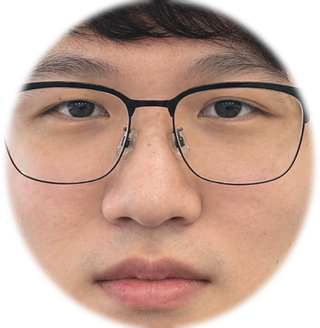
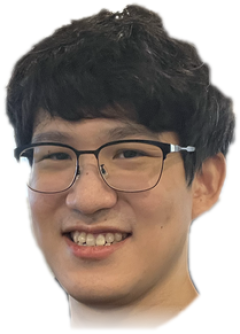
New Melon head cutout, hoodie-and-jeans body, drawn grabbing hand (#14)
Claude-Session: https://claude.ai/code/session_016JVDcqA5BWSQd8BoUJZBKD

diff --git a/melon/index.html b/melon/index.html
@@ -310,27 +310,39 @@
   .door{position:absolute;right:34px;bottom:28%;width:86px;height:150px;border-radius:8px 8px 0 0;background:#2d7a3e;box-shadow:inset 0 0 0 5px #24622f}
   .door::after{content:'';position:absolute;right:12px;top:78px;width:9px;height:9px;border-radius:50%;background:#ffd36b}
   .door b{position:absolute;left:50%;top:-30px;transform:translateX(-50%);background:#1d1d1f;color:#fff;font-size:12px;padding:4px 10px;border-radius:6px;white-space:nowrap}
-  .melonman{position:absolute;bottom:calc(28% - 6px);width:120px;height:250px;will-change:transform}
-  .melonman .face{position:absolute;left:50%;top:0;width:118px;transform:translateX(-50%);filter:drop-shadow(0 4px 6px rgba(0,0,0,.18));z-index:2;animation:headbob .5s ease-in-out infinite}
+  .melonman{position:absolute;bottom:calc(28% - 8px);width:130px;height:262px;will-change:transform}
+  .melonman .face{position:absolute;left:50%;top:0;width:104px;transform:translateX(-50%);z-index:3;filter:drop-shadow(0 3px 4px rgba(0,0,0,.18));transform-origin:50% 90%;animation:headbob .5s ease-in-out infinite}
   @keyframes headbob{50%{transform:translateX(-50%) translateY(-3px) rotate(-2deg)}}
-  .melonman svg{position:absolute;left:0;bottom:0;width:120px;height:170px;overflow:visible}
-  .melonman .legA,.melonman .legB{transform-box:fill-box;transform-origin:50% 0}
-  .melonman.walk .legA{animation:legA .5s ease-in-out infinite}
-  .melonman.walk .legB{animation:legB .5s ease-in-out infinite}
-  .melonman.struggle .legA{animation:legA .22s ease-in-out infinite}
-  .melonman.struggle .legB{animation:none;transform:rotate(-24deg) scaleY(1.12)}
-  .melonman.struggle .body{transform:rotate(12deg);transform-box:fill-box;transform-origin:50% 100%}
-  .melonman.slip .legA,.melonman.slip .legB{animation:legA .14s ease-in-out infinite}
-  @keyframes legA{0%,100%{transform:rotate(18deg)}50%{transform:rotate(-18deg)}}
-  @keyframes legB{0%,100%{transform:rotate(-18deg)}50%{transform:rotate(18deg)}}
-  .bubble{position:absolute;top:6px;left:calc(50% + 50px);background:#fff;color:#1d1d1f;font-size:15px;font-weight:700;padding:9px 14px;border-radius:16px;white-space:nowrap;
-    box-shadow:0 6px 18px rgba(0,0,0,.12);opacity:0;transition:opacity .25s}
+  .melonman.struggle .face{animation:headshake .18s ease-in-out infinite}
+  @keyframes headshake{0%,100%{transform:translateX(-50%) rotate(-4deg)}50%{transform:translateX(-50%) rotate(5deg)}}
+  .melonman svg{position:absolute;left:0;bottom:0;width:130px;height:146px;overflow:visible;z-index:2}
+  .melonman .legA,.melonman .legB,.melonman .armA,.melonman .armB,.melonman .torso{transform-box:view-box}
+  .melonman .legA{transform-origin:76px 66px}.melonman .legB{transform-origin:56px 66px}
+  .melonman .armA{transform-origin:100px 20px}.melonman .armB{transform-origin:30px 20px}
+  .melonman .torso{transform-origin:65px 68px}
+  .melonman.walk .legA{animation:swingA .5s ease-in-out infinite}.melonman.walk .legB{animation:swingB .5s ease-in-out infinite}
+  .melonman.walk .armA{animation:swingB .5s ease-in-out infinite}.melonman.walk .armB{animation:swingA .5s ease-in-out infinite}
+  .melonman.slip .legA,.melonman.slip .armB{animation:swingA .16s ease-in-out infinite}.melonman.slip .legB,.melonman.slip .armA{animation:swingB .16s ease-in-out infinite}
+  .melonman.struggle .torso{transform:rotate(10deg)}
+  .melonman.struggle .legA{animation:kick .2s ease-in-out infinite}
+  .melonman.struggle .legB{transform:rotate(-26deg)}
+  .melonman.struggle .armA{animation:reach .25s ease-in-out infinite}
+  .melonman.struggle .armB{animation:reach .25s ease-in-out infinite reverse}
+  @keyframes swingA{0%,100%{transform:rotate(20deg)}50%{transform:rotate(-20deg)}}
+  @keyframes swingB{0%,100%{transform:rotate(-20deg)}50%{transform:rotate(20deg)}}
+  @keyframes kick{0%,100%{transform:rotate(26deg)}50%{transform:rotate(6deg)}}
+  @keyframes reach{0%,100%{transform:rotate(-70deg)}50%{transform:rotate(-95deg)}}
+  .melonman .shadow{position:absolute;left:50%;bottom:-6px;width:96px;height:12px;transform:translateX(-50%);border-radius:50%;background:rgba(0,0,0,.14);filter:blur(2px)}
+  .bubble{position:absolute;top:8px;left:calc(50% + 48px);background:#fff;color:#1d1d1f;font-size:15px;font-weight:700;padding:9px 14px;border-radius:16px;white-space:nowrap;
+    box-shadow:0 6px 18px rgba(0,0,0,.12);opacity:0;transition:opacity .25s;z-index:4}
   .bubble.on{opacity:1}
   .bubble::after{content:'';position:absolute;left:-7px;top:12px;border:8px solid transparent;border-right-color:#fff;border-left:0}
-  .arm{position:absolute;left:0;bottom:calc(28% + 30px);height:26px;width:0;border-radius:0 14px 14px 0;background:#f2c9a5;box-shadow:inset 0 -5px 0 rgba(0,0,0,.08);opacity:0;transition:opacity .15s}
+  .arm{position:absolute;left:0;bottom:calc(28% + 22px);height:48px;width:0;opacity:0;transition:opacity .15s;z-index:3;pointer-events:none}
   .arm.on{opacity:1}
-  .arm::before{content:'';position:absolute;left:0;top:-6px;width:70px;height:38px;border-radius:0 10px 10px 0;background:#4a6fa5}
-  .arm i{position:absolute;right:-16px;top:-8px;font-size:34px;font-style:normal;transform:scaleX(-1) rotate(10deg)}
+  .arm .fore{position:absolute;left:0;right:30px;top:12px;height:24px;border-radius:0 12px 12px 0;background:linear-gradient(#f6d2b3,#e9b993);box-shadow:inset 0 -4px 0 rgba(0,0,0,.06)}
+  .arm .sleeve{position:absolute;left:0;top:4px;width:84px;height:40px;border-radius:0 14px 14px 0;background:linear-gradient(#5b82bd,#46699e)}
+  .arm .sleeve::after{content:'';position:absolute;right:0;top:0;bottom:0;width:10px;border-radius:0 14px 14px 0;background:#f5f5f7}
+  .arm svg{position:absolute;right:-6px;top:-4px;width:56px;height:56px}
   .gone-msg{position:absolute;left:50%;top:38%;transform:translate(-50%,-50%);font-size:clamp(20px,3vw,28px);font-weight:800;letter-spacing:-.03em;opacity:0;transition:opacity .4s;text-align:center;pointer-events:none}
   .gone-msg.on{opacity:1}
   .hold{position:absolute;left:50%;bottom:22px;transform:translateX(-50%);border:0;border-radius:999px;padding:16px 30px;font-size:18px;font-weight:700;background:#1d1d1f;color:#fff;cursor:pointer;
@@ -345,7 +357,7 @@
   .grab-stats li b{font-weight:600}
   .grab-name{width:min(1000px,100%);margin:14px auto 0;display:flex;gap:10px;align-items:center;font-size:15px;color:var(--mute)}
   .grab-name .field{max-width:260px;padding:10px 14px;font-size:15px}
-  @media (max-width:760px){ .scene{height:340px} .grab-stats{grid-template-columns:1fr} .melonman{width:90px;height:190px} .melonman .face{width:88px} .melonman svg{width:90px;height:128px} .door{right:14px;width:62px;height:112px} .bubble{left:calc(50% + 36px);font-size:13px;padding:7px 11px} .hold{padding:14px 24px;font-size:17px} }
+  @media (max-width:760px){ .scene{height:340px} .grab-stats{grid-template-columns:1fr} .melonman{width:100px;height:204px} .melonman .face{width:80px} .melonman svg{width:100px;height:112px} .melonman .shadow{width:74px} .door{right:14px;width:62px;height:112px} .bubble{left:calc(50% + 36px);font-size:13px;padding:7px 11px} .hold{padding:14px 24px;font-size:17px} }
   .play.single{grid-template-columns:1fr;max-width:680px;margin:0 auto}
 </style>
 </head>
@@ -500,20 +512,58 @@
     <div class="scene" id="scene">
       <div class="wall-l">사무실</div>
       <div class="door"><b>퇴근 →</b></div>
-      <div class="arm" id="arm"><i>✋</i></div>
+      <div class="arm" id="arm">
+        <div class="fore"></div><div class="sleeve"></div>
+        <svg viewBox="0 0 56 56" aria-hidden="true">
+          <path d="M6 18 C 6 12, 16 10, 24 12 L 40 14 C 46 15, 48 22, 44 25 C 49 27, 49 33, 44 35 C 48 38, 46 44, 40 44 L 22 44 C 12 44, 6 38, 6 30 Z" fill="#f1c4a0" stroke="#d29f7a" stroke-width="1.5"/>
+          <path d="M24 24 L 42 25 M24 34 L 42 35" stroke="#d29f7a" stroke-width="1.5" stroke-linecap="round" fill="none"/>
+          <path d="M10 18 C 14 8, 26 6, 30 12 C 32 16, 28 20, 22 20" fill="#f1c4a0" stroke="#d29f7a" stroke-width="1.5"/>
+          <path d="M41 16.5 q4 1 4.5 4 M41 27 q4 1 4 4 M38 37 q4 1 3.5 4.5" stroke="#fff" stroke-opacity=".6" stroke-width="2" fill="none" stroke-linecap="round"/>
+        </svg>
+      </div>
       <div class="melonman walk" id="mm">
         <div class="bubble" id="bubble"></div>
+        <div class="shadow"></div>
         <img class="face" src="face.png" alt="멜론님 얼굴">
-        <svg viewBox="0 0 120 170" aria-hidden="true">
-          <g class="body">
-            <rect x="34" y="6" width="52" height="74" rx="18" fill="#7fb069"/>
-            <rect x="22" y="14" width="16" height="54" rx="8" fill="#6a9a58" transform="rotate(12 30 14)"/>
-            <rect x="82" y="14" width="16" height="54" rx="8" fill="#6a9a58" transform="rotate(-28 90 14)"/>
-            <circle cx="104" cy="62" r="8" fill="#f2c9a5"/>
-            <rect x="80" y="40" width="30" height="22" rx="4" fill="#3a3a3c"/>
+        <svg viewBox="0 0 130 146" aria-hidden="true">
+          <defs>
+            <linearGradient id="hood" x1="0" x2="1"><stop offset="0" stop-color="#2b2b2f"/><stop offset=".55" stop-color="#1e1e21"/><stop offset="1" stop-color="#141416"/></linearGradient>
+            <linearGradient id="jean" x1="0" x2="1"><stop offset="0" stop-color="#46597d"/><stop offset="1" stop-color="#2f3d5a"/></linearGradient>
+          </defs>
+          <!-- 뒷다리 -->
+          <g class="legB">
+            <path d="M48 64 h18 l-1 68 h-15 z" fill="url(#jean)"/>
+            <path d="M44 128 h24 c6 0 9 4 9 8 v3 h-36 v-5 c0 -4 1 -6 3 -6z" fill="#f2f2f2" stroke="#c8c8c8"/><rect x="41" y="137" width="36" height="4" rx="2" fill="#bdbdbd"/>
           </g>
-          <g class="legB"><rect x="40" y="72" width="18" height="78" rx="8" fill="#2f3e5c"/><rect x="34" y="144" width="30" height="14" rx="7" fill="#1d1d1f"/></g>
-          <g class="legA"><rect x="62" y="72" width="18" height="78" rx="8" fill="#3a4b6e"/><rect x="58" y="144" width="30" height="14" rx="7" fill="#1d1d1f"/></g>
+          <!-- 뒷팔 -->
+          <g class="armB"><g transform="scale(1 .8)">
+            <path d="M30 22 c-8 4 -10 14 -10 26 l1 22 c0 4 10 4 11 0 l2 -24 z" fill="#18181b"/>
+            <rect x="19" y="66" width="13" height="7" rx="3" fill="#2a2a2e"/>
+            <ellipse cx="25.5" cy="78" rx="6.5" ry="7" fill="#f1c4a0" stroke="#d29f7a"/>
+          </g></g>
+          <!-- 몸통 (검은 후드 집업) -->
+          <g class="torso"><g transform="scale(1 .74)">
+            <path d="M42 0 c-10 2 -14 8 -14 8 c-6 6 -8 14 -8 30 l2 50 c0 4 4 6 10 6 h66 c6 0 10 -2 10 -6 l2 -50 c0 -16 -2 -24 -8 -30 c0 0 -4 -6 -14 -8 c-6 8 -40 8 -46 0z" fill="url(#hood)"/>
+            <path d="M44 0 c4 10 38 10 42 0 c2 6 0 12 -4 14 c-10 6 -24 6 -34 0 c-4 -2 -6 -8 -4 -14z" fill="#232326"/>
+            <path d="M65 12 v80" stroke="#3d3d42" stroke-width="2"/>
+            <rect x="62.5" y="20" width="5" height="9" rx="1.5" fill="#8e8e93"/>
+            <path d="M56 12 v18 M74 12 v16" stroke="#3a3a3e" stroke-width="2" stroke-linecap="round"/>
+            <circle cx="56" cy="31" r="2" fill="#8e8e93"/><circle cx="74" cy="29" r="2" fill="#8e8e93"/>
+            <path d="M34 64 c6 -4 12 -4 18 0 M78 64 c6 -4 12 -4 18 0" stroke="#3a3a3e" stroke-width="2" fill="none" stroke-linecap="round"/>
+            <rect x="24" y="84" width="82" height="9" rx="4" fill="#232326"/>
+          </g></g>
+          <!-- 앞다리 -->
+          <g class="legA">
+            <path d="M66 64 h18 l-1 68 h-15 z" fill="url(#jean)"/>
+            <path d="M68 70 v58" stroke="#5a6d93" stroke-width="1.2" opacity=".7"/>
+            <path d="M62 128 h24 c6 0 9 4 9 8 v3 h-36 v-5 c0 -4 1 -6 3 -6z" fill="#fafafa" stroke="#c8c8c8"/><rect x="59" y="137" width="36" height="4" rx="2" fill="#bdbdbd"/>
+          </g>
+          <!-- 앞팔 -->
+          <g class="armA"><g transform="scale(1 .8)">
+            <path d="M100 22 c8 4 10 14 10 26 l-1 22 c0 4 -10 4 -11 0 l-2 -24 z" fill="#232326"/>
+            <rect x="98" y="66" width="13" height="7" rx="3" fill="#2f2f33"/>
+            <ellipse cx="104.5" cy="78" rx="6.5" ry="7" fill="#f1c4a0" stroke="#d29f7a"/>
+          </g></g>
         </svg>
       </div>
       <div class="gone-msg" id="goneMsg">멜론님이 퇴근했습니다 🏃💨<br><span style="font-size:.6em;color:#6e6e73;font-weight:600">곧 다시 출근합니다 (아마도)</span></div>
@@ -914,7 +964,7 @@ showQuote(); setInterval(()=>{ qi=(qi+1)%quotes.length; showQuote(); }, 9000);
       x = Math.max(10, x + v * dt);
       mm.className = 'melonman ' + (holding ? 'struggle' : now < slipUntil ? 'slip' : 'walk');
       mm.style.transform = `translateX(${x}px)`;
-      arm.style.width = Math.max(0, x + 34) + 'px';
+      arm.style.width = Math.max(0, x + (scene.clientWidth < 600 ? 44 : 58)) + 'px';
       arm.classList.toggle('on', holding);
       if (holding) $('gMine').textContent = ((now - holdStart) / 1000).toFixed(1) + '초';
       if (x >= doorX()){
